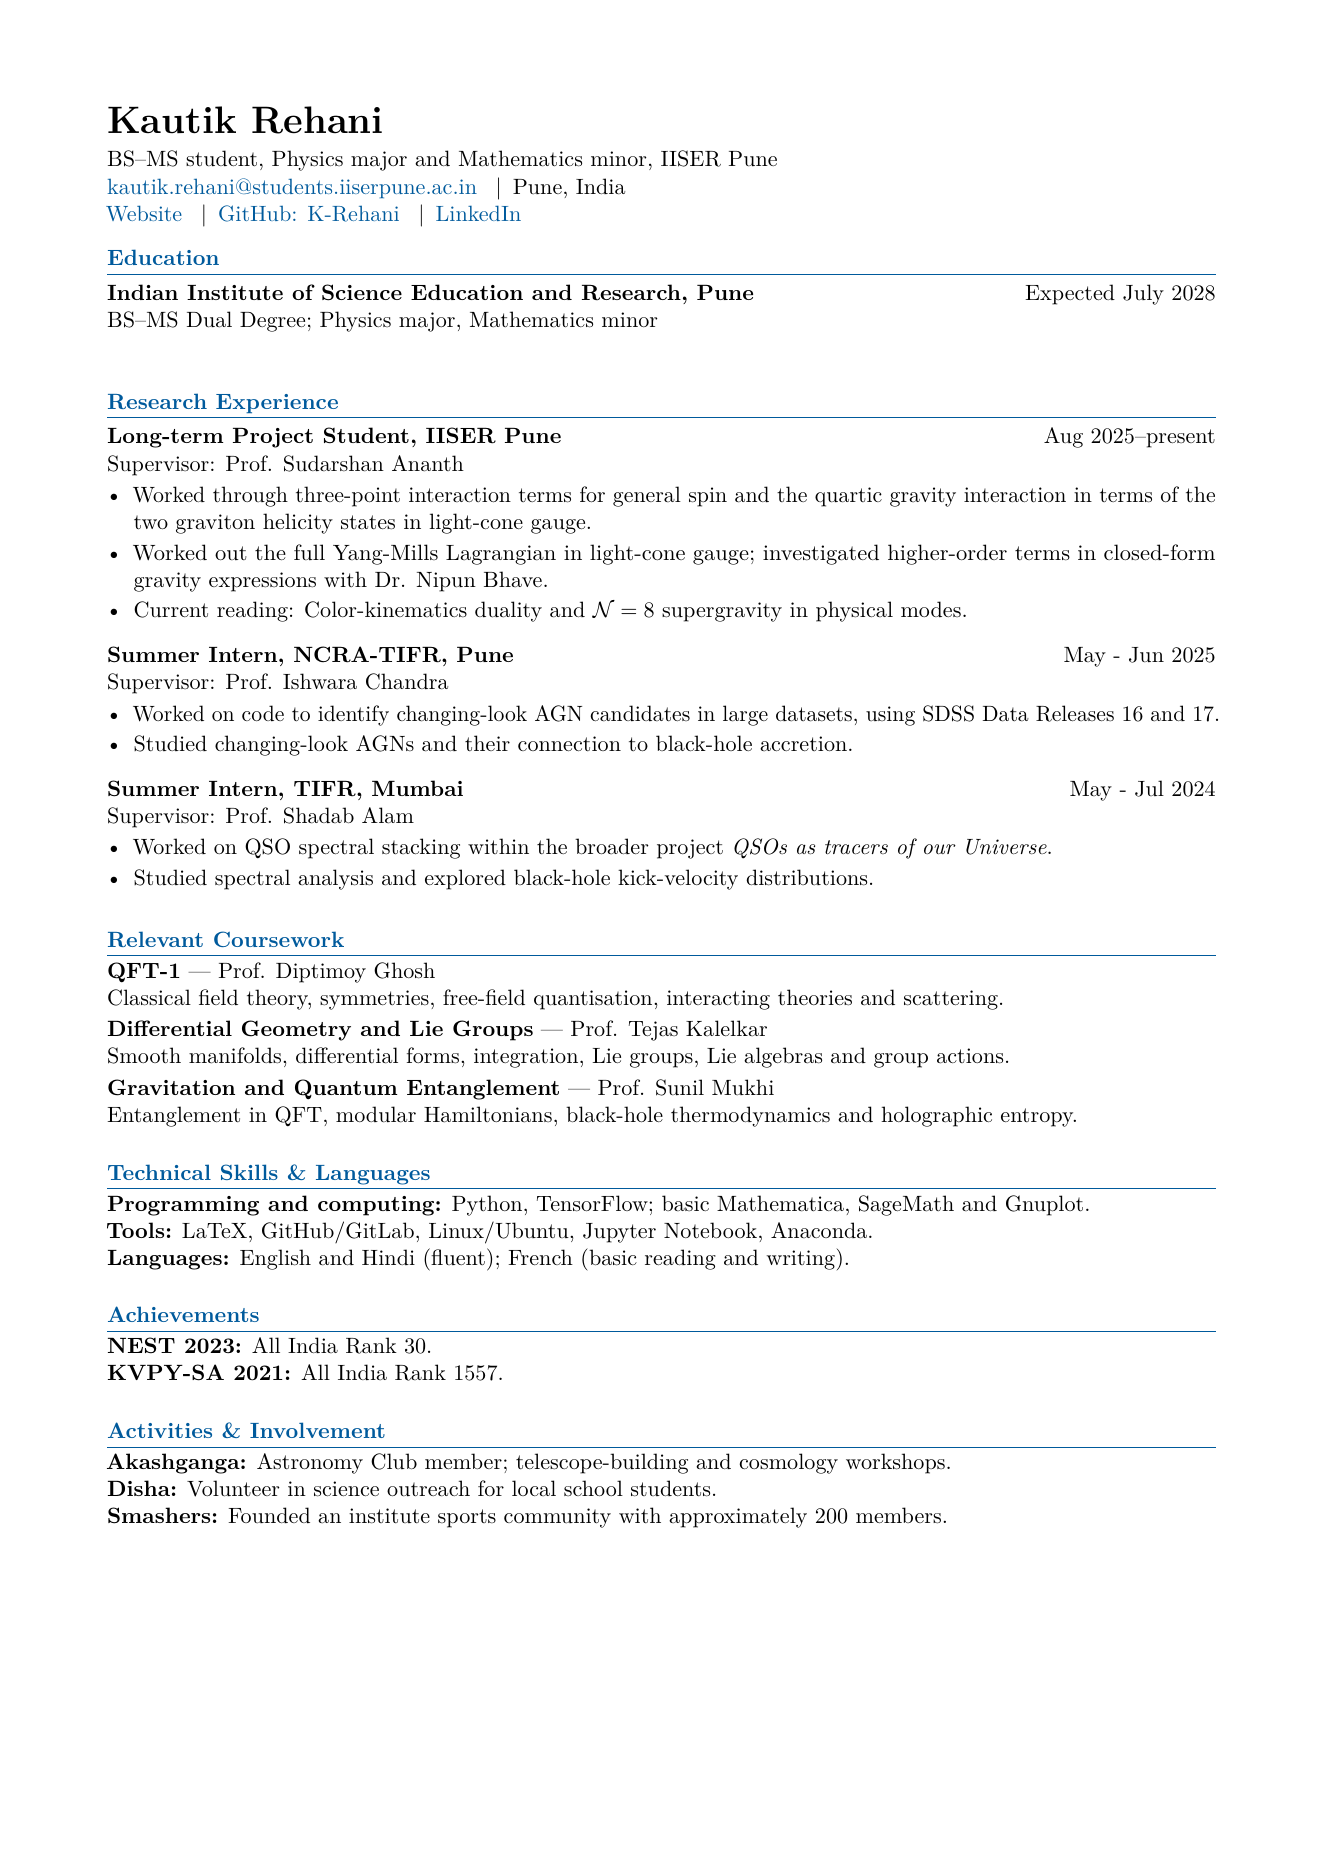
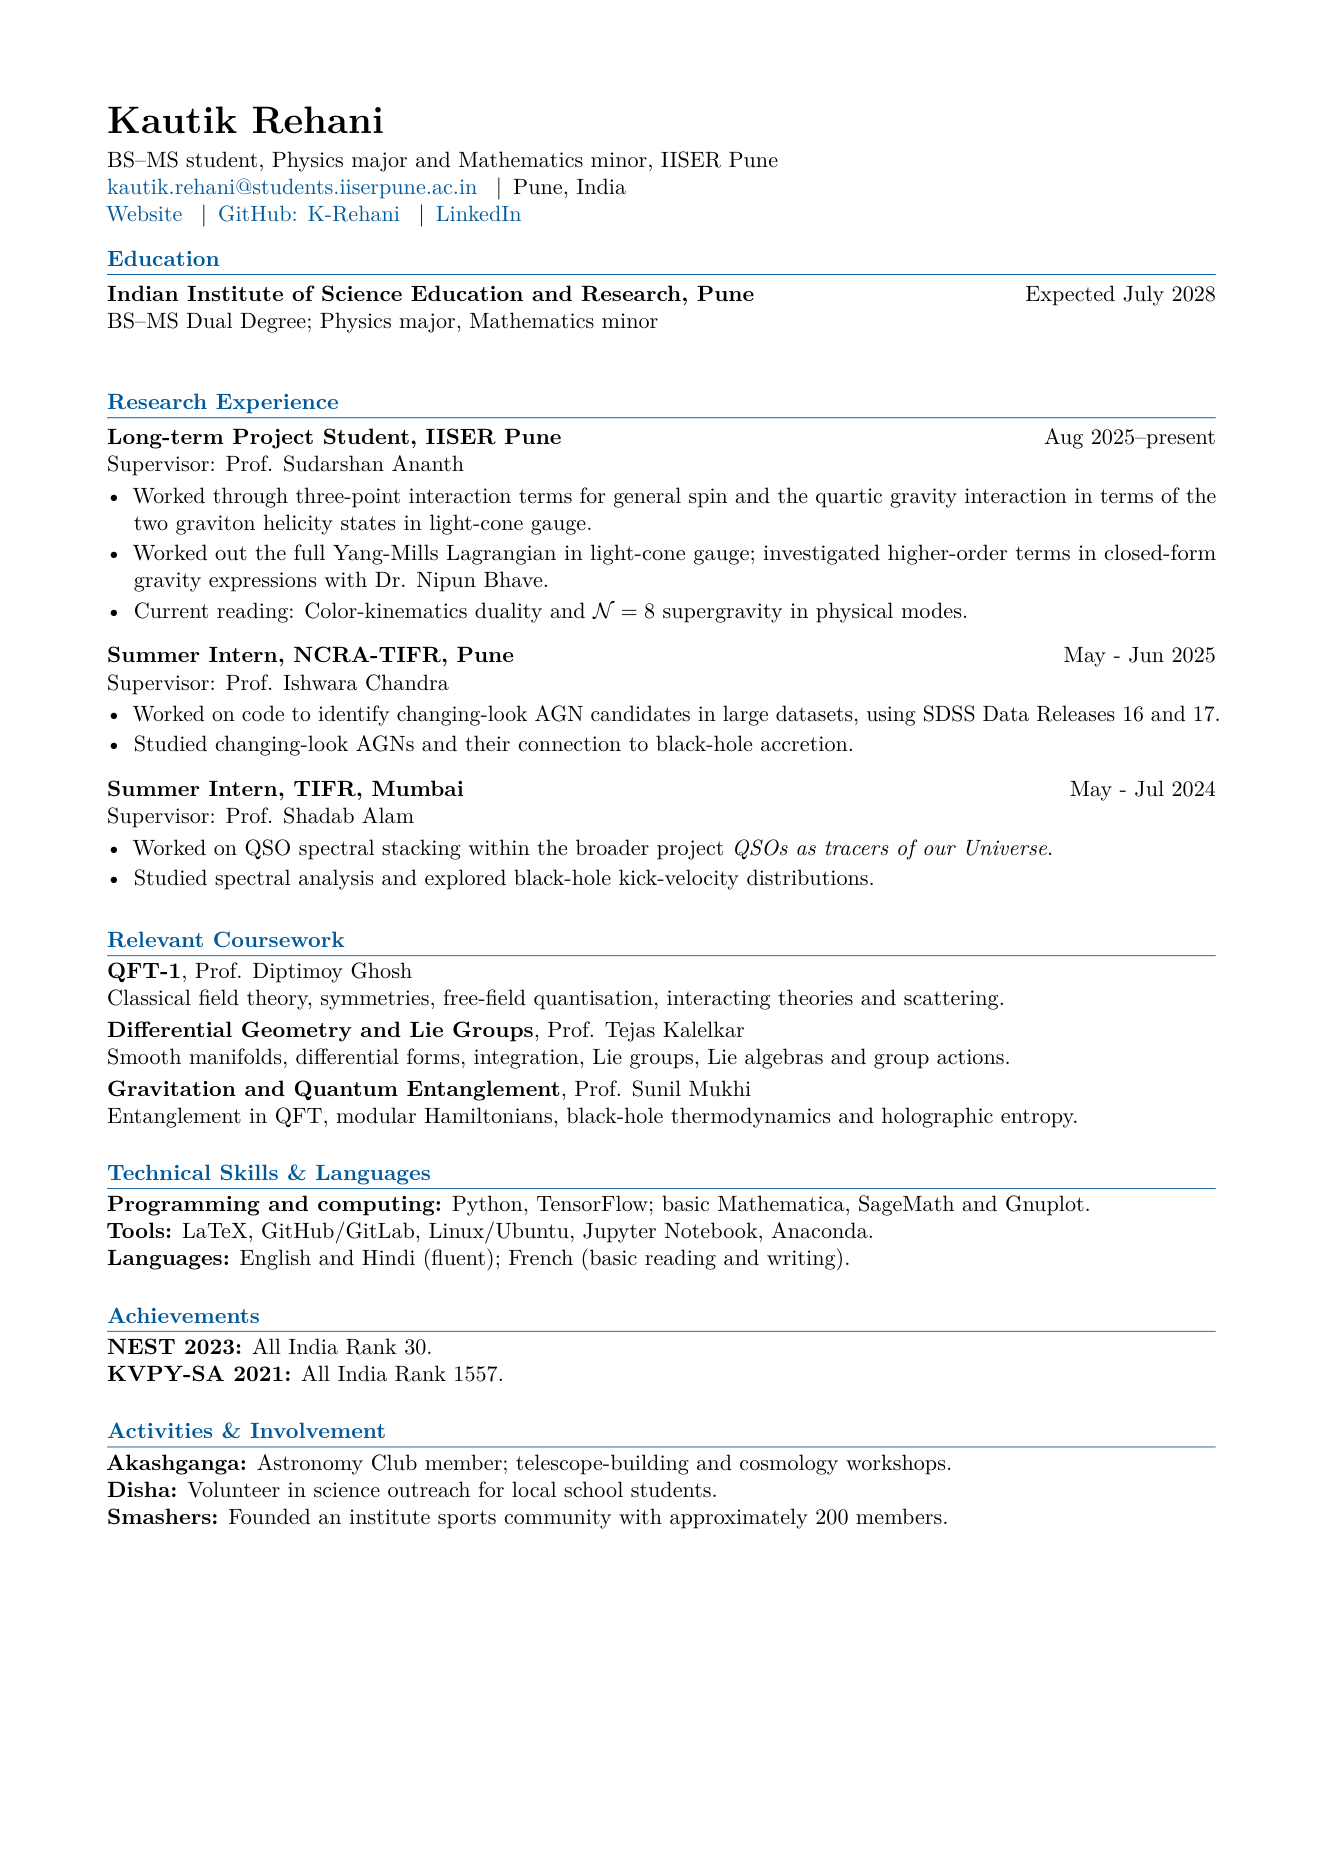
Simplify website wording and punctuation

diff --git a/src/content/research/light-cone-field-theory.md b/src/content/research/light-cone-field-theory.md
@@ -11,15 +11,15 @@ summary: "Study of gauge theory, gravity, and 𝒩=8 supergravity in light-cone 
 ---
 
 
-My theoretical work with Prof. Sudarshan Ananth has focused on the light-cone formulation of gauge theory, gravity, and $\mathcal{N}=8$ supergravity. I am interested in how working directly with physical field degrees of freedom helps us understand interactions in gauge theory and gravity.
+My work with Prof. Sudarshan Ananth focuses on the light-cone formulation of gauge theory, gravity, and $\mathcal{N}=8$ supergravity. I am interested in how working directly with physical field degrees of freedom helps us understand interactions in gauge theory and gravity.
 
 ## What I have been studying
 
-I began with special relativity, index notation, the Lagrangian formulation of electromagnetism, and the Lorentz group. I then studied how the light-cone approach can be used to construct cubic interactions for fields of arbitrary spin.
+I began with special relativity, index notation, the Lagrangian formulation of electromagnetism, the Lorentz group, and introductory path integrals. I then studied how the light-cone approach can be used to construct cubic interactions for fields of arbitrary spin.
 
-My gravity reading has focused on the gauge conditions and constraint equations that reduce the Einstein–Hilbert action to its physical degrees of freedom, followed by its expansion in graviton fields. I have been working through the cubic and quartic terms, using the original light-front treatment and later expressions for comparison.
+For gravity, I studied the gauge conditions and constraint equations used to reduce the Einstein–Hilbert action to the two physical graviton helicities in four dimensions. I am working through its cubic and quartic terms, comparing the original light-front treatment with later expressions.
 
-My study also includes $\mathcal{N}=8$ supergravity, with an interest in its symmetries and how its interaction terms relate to those of pure gravity.
+I am also studying $\mathcal{N}=4$ Yang–Mills theory and $\mathcal{N}=8$ supergravity in light-cone gauge. For supergravity, I am interested in its symmetries and how its interaction terms relate to pure gravity.
 
 ## Currently working on
 
@@ -29,8 +29,6 @@ I am currently working on color–kinematics (CK) duality with Prof. Sudarshan A
 - Reference 17: [*Perturbative Quantum Gravity as a Double Copy of Gauge Theory* (2010)](https://arxiv.org/abs/1004.0476).
 
 ## Reading and references
-
-The following material is part of my work with Prof. Sudarshan Ananth, beginning in August 2025. Items 16–17 are my current CK-duality references. Some items are calculations I have worked through; others are references for the next stages.
 
 | No. | Material | Progress / use |
 | --- | --- | --- |
@@ -51,13 +49,3 @@ The following material is part of my work with Prof. Sudarshan Ananth, beginning
 | 15 | Ananth, Brink, Majumdar, Mali and Shah, [*Gravitation and Quadratic Forms*](https://arxiv.org/abs/1702.06261) | Related reading |
 | 16 | Bern, Carrasco and Johansson, [*New Relations for Gauge-Theory Amplitudes* (2008)](https://arxiv.org/abs/0805.3993) | Current CK-duality reference |
 | 17 | Bern, Carrasco and Johansson, [*Perturbative Quantum Gravity as a Double Copy of Gauge Theory* (2010)](https://arxiv.org/abs/1004.0476) | Current CK-duality reference |
-
-## How the topics fit together
-
-The first stage covered special relativity, tensor and index notation, the electromagnetic field Lagrangian, and the Lorentz group. Introductory path integrals and cubic interactions then led into the light-cone treatment of gauge theory and gravity.
-
-For gravity, I studied the gauge conditions and constraint equations that leave the two physical graviton helicities in four dimensions, then worked through the cubic and quartic interaction terms. The higher-order gravity papers and theses provide further references for these calculations.
-
-My reading also includes the light-cone formulation of $\mathcal{N}=4$ Yang–Mills theory. My study of $\mathcal{N}=8$ supergravity, together with the KLT and quadratic-form papers, helps me understand the connections between gauge theory and gravity.
-
-Further semester projects and my own write-ups will be added here as the work develops.

diff --git a/README.md b/README.md
@@ -1,11 +1,11 @@
-# Kautik Rehani — academic website
+# Kautik Rehani: academic website
 
 A small, static academic website built with Astro, Markdown, CSS, and a little JavaScript. The starting design is dark; visitors can switch to light mode. There is no database, account system, contact form, or paid service.
 
 ## Start here
 
 1. Install **Node.js 24** (which includes npm).
-2. Open a terminal in this folder — the one containing `package.json`.
+2. Open a terminal in the folder containing `package.json`.
 3. Run:
 
 ```bash
@@ -30,10 +30,10 @@ npm run preview
 | --- | --- |
 | Name, email, GitHub, LinkedIn, photo, CV link | `src/data/profile.json` |
 | Short biography | `src/content/pages/home.md` |
-| CV PDF and page preview | `public/cv/` — former native content is retained in `src/content/pages/cv.md` |
-| Research projects | `src/content/research/` — one Markdown file per project |
-| Personal notes | `src/content/notes/` — one Markdown file per entry |
-| Future coursework | `src/content/courses/` — one Markdown file per course |
+| CV PDF and page preview | `public/cv/`, former native content is retained in `src/content/pages/cv.md` |
+| Research projects | `src/content/research/`, one Markdown file per project |
+| Personal notes | `src/content/notes/`, one Markdown file per entry |
+| Future coursework | `src/content/courses/`, one Markdown file per course |
 | Sidebar links | `src/data/navigation.json` |
 | Colours, typefaces, spacing | `src/styles/global.css` |
 
@@ -79,9 +79,9 @@ For a custom domain, set `SITE_URL` to the complete origin and `SITE_BASE` to `/
 
 ## What is included
 
-- Home, Research, Readings & Notes, CV, Contact, and a useful 404 page.
+- Home, Research, Readings & Notes, CV, Contact, and a 404 page.
 - Three research entries: ongoing IISER study, NCRA 2025, and TIFR 2024.
-- All 20 supplied reading items and references collected under the IISER project with Prof. Sudarshan Ananth.
+- Introductory readings in Readings & Notes, with project references under the IISER entry with Prof. Sudarshan Ananth.
 - Content collections: new Markdown entries appear automatically.
 - Optional external PDF links, repository links, and local files.
 - Mathematics rendered at build time with KaTeX, with local CSS/fonts; syntax-highlighted code blocks.
@@ -99,11 +99,11 @@ Reports link to their existing GitHub files. Third-party PDFs, book extracts, su
 - Education dates, if you want them shown alongside the degree title.
 - A confirmed list of formal and audited courses, including which are ongoing.
 - Named extracurricular activities and roles you want included.
-- Your own notes PDFs and their exact public URLs. The notes repository currently has a README but no notes PDFs.
+- Further notes PDFs and their public URLs.
 - Individual titles/dates and write-ups for further semester projects, if you want them separated from the ongoing light-cone study.
 
-Your official email and LinkedIn profile are included. The supplied CV PDF is hosted unchanged, with a linked page preview. The optional photo setting remains empty.
+Your official email and LinkedIn profile are included. The CV PDF and page preview are hosted on the website. The optional photo setting remains empty.
 
 See `CONTENT_SOURCES.md` for the basis of the project descriptions and `VERIFICATION.md` for checks and remaining manual review.
 
-The Readings & Notes section uses `/readings-and-notes/`; old `/notes/` links redirect there. The CV page provides a responsive preview and open/download links to the supplied, unmodified PDF. Its former native content is retained in `src/content/pages/cv.md` for an easy return.
+The Readings & Notes section uses `/readings-and-notes/`; old `/notes/` links redirect there. The CV page provides a responsive preview and open/download links to the CV PDF. Its former native content is retained in `src/content/pages/cv.md` for an easy return.

diff --git a/src/content/research/stacking-spectra.md b/src/content/research/stacking-spectra.md
@@ -12,14 +12,14 @@ resources: [{"label": "Project report", "kind": "pdf", "url": "https://github.co
 ---
 
 
-I spent summer 2024 at TIFR Mumbai working with Prof. Shadab Alam on stacking optical spectra of galaxies and quasars. The motivation was to combine spectra to make shared spectral features easier to study when individual observations are noisy. Alongside this, I studied recoil velocities from black-hole mergers and worked with simulations.
+I spent summer 2024 at TIFR Mumbai working with Prof. Shadab Alam on stacking optical spectra of galaxies and quasars. The aim was to make shared spectral features easier to see in noisy data. Alongside this, I studied recoil velocities from black-hole mergers and worked with simulations.
 
 ## My work
 
-I developed a Python notebook to retrieve spectra through SPARCL, account for redshift, organize them over a common wavelength range, and compare unweighted and inverse-variance-weighted stacks. The project involved wavelength binning, outlier handling through sigma clipping, and plotting the resulting spectra.
+I developed a Python notebook to retrieve spectra through SPARCL, account for redshift, organize them over a common wavelength range, and compare unweighted and inverse-variance-weighted stacks. I binned wavelengths, used sigma clipping to handle outliers, and plotted the stacks.
 
-The report discusses SDSS DR16, BOSS DR16, and DESI EDR. The saved notebook example uses a sample of 100 SDSS DR16 quasars. The project helped me understand both the usefulness of stacking and the care needed when combining measurements with different uncertainties and coverage.
+The report discusses SDSS DR16, BOSS DR16, and DESI EDR. The saved notebook example uses a sample of 100 SDSS DR16 quasars. I learned how differences in uncertainty and wavelength coverage affect a stack.
 
 ## Outcome
 
-The main outputs are the spectral-stacking notebook, saved comparison plots, and my summer project report. The repository also includes notes about the implemented methods and how to rerun the notebook.
+I wrote a summer report and produced the notebook and comparison plots. The repository includes notes on the method and instructions for rerunning the notebook.

diff --git a/src/content/notes/light-cone-gravity.md b/src/content/notes/light-cone-gravity.md
@@ -12,7 +12,7 @@ My gravity reading follows the reduction of the Einstein–Hilbert action to the
 
 ## Main reading
 
-- J. Scherk and J. H. Schwarz, *Gravitation in the Light Cone Gauge* — studied in part.
+- J. Scherk and J. H. Schwarz, *Gravitation in the Light Cone Gauge* (studied in part).
 - I. Bengtsson, M. Cederwall and O. Lindgren, *Light Front Actions for Gravity and Higher Spins; Some Further Results*.
 - The quartic-contribution working sheet supplied during the project.
 - Appendix C of Ananth, Brink, Heise and Svendsen, [*The $\mathcal{N}=8$ Supergravity Hamiltonian as a Quadratic Form*](https://arxiv.org/abs/hep-th/0607019), as a reference for the pure-gravity action.
@@ -25,4 +25,4 @@ My gravity reading follows the reduction of the Einstein–Hilbert action to the
 - Ananth, [*The Quintic Interaction Vertex in Light-cone Gravity*](https://arxiv.org/abs/0803.1494).
 - Ananth, Bhave and Raj, [*The Structure of Interaction Vertices in Pure Gravity in the Light-cone Gauge*](https://arxiv.org/abs/2207.10416).
 
-The last two papers are references for higher-order interactions. Listing a reference here does not mean that I have completed all of its calculations.
+The last two papers are references for higher-order interactions.

diff --git a/src/content/research/changing-look-agn.md b/src/content/research/changing-look-agn.md
@@ -26,6 +26,6 @@ This work gave me practice with FITS catalogs, observation identifiers, redshift
 
 ## Outcome and code
 
-The summer work produced a repeat-spectrum selection and comparison workflow, diagnostic plots, and a project report. The linked repository includes a Python implementation with measurements of selected emission lines, simple fits to broad hydrogen lines, and comparison plots. It also includes synthetic examples for checking the measurements.
+The summer work produced code to select and compare repeat spectra, plots, and a project report. The repository contains Python code to measure selected emission lines, fit broad hydrogen lines, and plot the comparisons. It also includes test spectra for checking the measurements.
 
-The project provides a starting point for reviewing possible changing-look objects; it does not report a confirmed changing-look discovery. Most of the work was done in summer 2025. I uploaded it to GitHub later and have made small updates to the code and documentation since then.
+The code helps compare spectra and review possible changing-look candidates. Most of the work was done in summer 2025. I uploaded it to GitHub later and have made small updates to the code and documentation since then.

diff --git a/src/content/pages/cv.md b/src/content/pages/cv.md
@@ -5,9 +5,9 @@ Bachelors of Science (Physics Major & Mathematics Minor)
 
 ## Research experience
 
-- **August 2025–present · IISER Pune** — Field theory and gravity in light-cone gauge, with [Prof. Sudarshan Ananth](https://www.iiserpune.ac.in/research/department/physics/people/faculty/regular-faculty/sudarshan-ananth/4).
-- **May–July 2025 · NCRA–TIFR, Pune** — Repeat optical spectra and changing-look AGN, with [Prof. Ishwara Chandra](https://www.ncra.tifr.res.in/people/253).
-- **May–July 2024 · TIFR, Mumbai** — Stacking galaxy and quasar spectra, with [Prof. Shadab Alam](https://www.tifr.res.in/~shadab.alam/).
+- **August 2025–present · IISER Pune**: Field theory and gravity in light-cone gauge, with [Prof. Sudarshan Ananth](https://www.iiserpune.ac.in/research/department/physics/people/faculty/regular-faculty/sudarshan-ananth/4).
+- **May–July 2025 · NCRA–TIFR, Pune**: Repeat optical spectra and changing-look AGN, with [Prof. Ishwara Chandra](https://www.ncra.tifr.res.in/people/253).
+- **May–July 2024 · TIFR, Mumbai**: Stacking galaxy and quasar spectra, with [Prof. Shadab Alam](https://www.tifr.res.in/~shadab.alam/).
 
 ## Technical experience
 

diff --git a/src/content/notes/amplitudes-and-symmetries.md b/src/content/notes/amplitudes-and-symmetries.md
@@ -8,10 +8,8 @@ summary: "References connecting gauge theory and gravity, including KLT relation
 ---
 
 
-These references sit alongside my light-cone study and point toward questions I would like to understand more deeply.
+I use these papers for my study of gauge theory and gravity.
 
 - Ananth and Theisen, [*KLT Relations from the Einstein–Hilbert Lagrangian*](https://arxiv.org/abs/0706.1778), studies how the three- and four-point gauge–gravity relations can be made visible at the level of a suitably rewritten action.
 - Ananth, Brink, Heise and Svendsen, [*The $\mathcal{N}=8$ Supergravity Hamiltonian as a Quadratic Form*](https://arxiv.org/abs/hep-th/0607019), develops the light-cone supergravity Hamiltonian and its quartic interaction.
 - Ananth, Brink, Majumdar, Mali and Shah, [*Gravitation and Quadratic Forms*](https://arxiv.org/abs/1702.06261), studies quadratic-form Hamiltonians and residual transformations in gravity.
-
-These are reading references, not my publications. My own derivations and study notes will be added separately.

diff --git a/src/content/notes/field-theory.md b/src/content/notes/field-theory.md
@@ -19,5 +19,3 @@ summary: "The Lorentz group, introductory path integrals, arbitrary-spin cubic i
 Brink, Lindgren and Nilsson’s *N=4 Yang–Mills Theory on the Light Cone* develops a superspace description of maximally supersymmetric Yang–Mills theory. I am working through this as part of my current theoretical study.
 
 Sarthak Parikh’s thesis, *Applications of Light-cone Superspace in Quantum Field Theory*, is an additional reference.
-
-This page records reading topics. The cited papers and theses are the work of their respective authors.

diff --git a/src/content/notes/relativity-and-fields.md b/src/content/notes/relativity-and-fields.md
@@ -25,5 +25,3 @@ $$
 $$
 
 A reference may use a different convention; signs and raised or lowered indices should be checked before combining formulas from different sources.
-
-My own notes and worked calculations will be linked here as I organize them. The textbook extracts used for study are not reproduced on this website.
